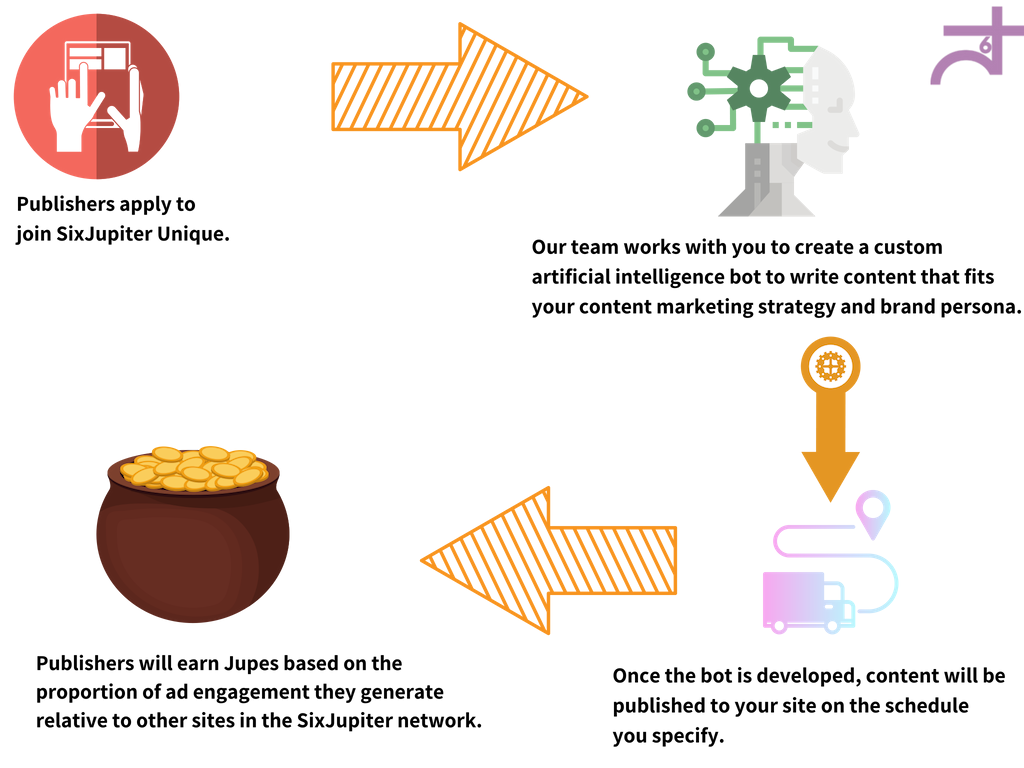
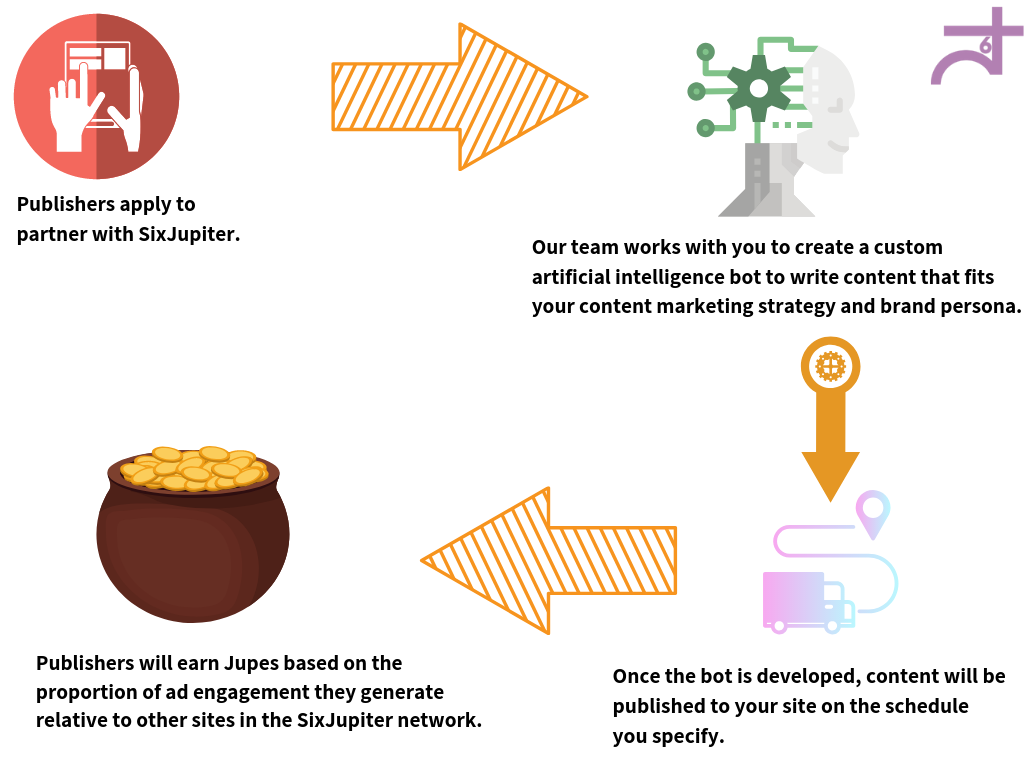
update

diff --git a/index.html b/index.html
@@ -123,9 +123,9 @@ drift.load('2v6xykvs7b4u');
         <div class="container">
             <div class="row">
               <div class="col-sm-8 col-md-offset-1 col-md-6 white banner-content2">
-                <h2>Bitcoin Content for Publishers</h2>
+                <h2>Get Your Own Publishing Bot</h2>
 <br />
-              <p style="color:#f6f6f6;font-size:20px;font-weight:normal;">Get a daily Bitcoin news feed to include in your site, packaged with affiliate links, to help you monetize your audience's interest in Bitcoin.</p>
+              <p style="color:#f6f6f6;font-size:20px;font-weight:normal;">Get your own custom bot that writes unique, fact-based articles on cryptocurrencies for your site. Ads are included in the content, so a new revenue channel for you too. :)</p>
 <div style="text-align: center;">
                   <a href="https://docs.google.com/forms/d/e/1FAIpQLSeKIHA4cO39ayjt4umMdAJL0XzzYydIF7VlYbY5d9jdbIdy0A/viewform?usp=sf_link" target="_blank" class="btn btn-white btn-circled gradient" >Join Our Network <br /></a>
     
@@ -133,7 +133,7 @@ drift.load('2v6xykvs7b4u');
 
               </div>
               <div class="col-sm-4 col-md-3 col-md-offset-1 white text-center">
-                  <img src="img/bitcoin.png">
+                  <img src="img/brain.png">
 
                 
 
@@ -185,7 +185,7 @@ drift.load('2v6xykvs7b4u');
       <div class="col-md-8 m-auto">
         <div class="section-heading">
 
-        <h3>SixJupiter Unique: Get Your Own Custom Publishing Bot</h3> 
+        <h3>Get Your Own Custom Publishing Bot</h3> 
       </div>
       <div>
 
@@ -195,13 +195,13 @@ drift.load('2v6xykvs7b4u');
 
         <p> <ul style="padding-left:25px; line-height:30px;">
 
-Looking for compelling, unique content on cryptocurrencies that can differentiate your site from other publishers in the minds of readers, rank in search engines, and be posted automatically to your site for free? Look no further. SixJupiter Unique program provides qualifying publishers with their own bot that generates unique cryptocurrency news content for them that matches their content marketing strategy and brand persona. Here's how it works:<br />
+Looking for compelling, unique content on cryptocurrencies that can differentiate your site from other publishers in the minds of readers, rank in search engines, and be posted automatically to your site for free? Look no further. SixJupiter provides qualifying publishers with their own bot that generates unique cryptocurrency news content for them that matches their content marketing strategy and brand persona. Here's how it works:<br />
 
-<br /><h4>The SixJupiter Unique Process</h4><br />
+<br /><h4>The SixJupiter Process</h4><br />
 
         <p> <ul style="padding-left:25px; line-height:30px;">
 
-<li><strong>+ Contact Us. </strong> SixJupiter is looking for more established publishers that have already earned a loyal audience for the SixJupiter Unique program. If you are interested in
+<li><strong>+ Contact Us. </strong> SixJupiter is looking for more established publishers that have already earned a loyal audience to partner with. If you are interested in
     exploring whether there is a mutual fit, please send a brief message introducing yourself to <a href="mailto:info@sixjupiter.com" class="bluelink">info@sixjupiter.com.</a> A member of our team will quickly follow up with you upon receiving your inquiry.</li><br />
 <li><strong>+ Build a Bot That Matches Your Brand.</strong> Once we have corresponded a bit and both of us are ready to move forward working together, the SixJupiter team will begin constructing a bot for you. We will routinely communicate with you while we are building the bot, showing you samples for your feedback and providing estimates regarding when the bot will be available (a period of time typically ranging from several days to several weeks).  </li><br />
 <li><strong>+ Monetization Included :)</strong> SixJupiter packages ads and lead capture opportunities in the content its bots create, and shares this revenue with its partnering publishers. See the section below for details on how revenue is generated and shared.   </li>  
